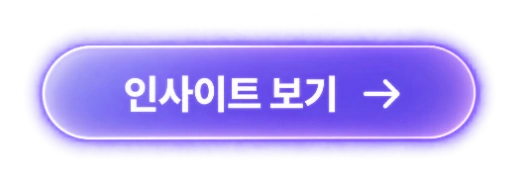
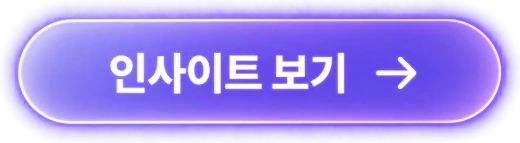
feat: FE_히어로에 하늘 장식 셋 · 그림의 투명 여백을 잘라 간격을 좁힌다
하늘 장식 셋 (비행선 · 지구본 · 전광판)
  시안(prototype.png)에서 하늘에 떠 있는 조각들인데, 낱개 모음 한 장
  (09_04_44 (10))에 같이 그려져 있다. 빛이 서로 닿아 있어 연결 요소로는 안
  갈라진다 — 실제로 자동 탐지를 돌리니 위쪽 절반이 1368x600 한 덩어리로 잡혔다.
  그래서 자리를 적어 오려낸다(bake 스크립트의 rect).

  **오린 네모의 가장자리를 부드럽게 지운다.** 어디서 잘라도 이웃의 옅은 빛이
  조금 들어와, 그대로 두면 하늘 위에 직사각형 자국이 보인다(처음에 그렇게 나왔다).
  가장자리 몇 px 을 투명으로 녹이면 티가 나지 않는다.

    deco-airship.webp    420x229  37KB
    deco-globe.webp      420x447  88KB
    deco-billboard.webp  207x535  46KB

  전부 장식이라 클릭을 받지 않고 읽어 주는 기기에서도 건너뛴다 — 전광판의
  "SMALL INSIGHT BIG CHANGE" 까지 읽히면 화면의 첫 문장이 엉뚱한 표어가 된다.
  1180px 아래에서는 걷는다. 좁으면 글자가 먼저다.

여백이 넓던 진짜 이유 — 그림 안에 있었다
  받은 PNG 는 글자 둘레에 빈칸이 넓다. 손글씨는 **높이 270px 중 187px(69%)이
  투명**이었다(위 93 · 아래 94). CSS 마진을 0 으로 해도 안 붙는 이유였다.
  굽는 단계에서 알파 경계를 찾아 잘라낸다.
    hero-eyebrow.webp  270px -> 89px
    hero-cta.webp      186px -> 143px

  이제 CSS 값이 곧 눈에 보이는 간격이라 시안처럼 바짝 붙였다
  (윗줄 아래 10 · 부제 위 10 · 버튼 위 16).

캘리그라피 크기도 줄였다(340 -> 250px).

일곱 폭에서 가로 넘침 0 · 콘솔 오류 0 · tsc -b · npm run build.
원본 PNG 는 굽고 지웠다.

diff --git a/frontend/src/styles/home-night.css b/frontend/src/styles/home-night.css
@@ -490,7 +490,7 @@ body.insight-home.is-night .hm-hello{
   margin:0 0 6px; line-height:0;
 }
 body.insight-home.is-night .hm-hello img{
-  width:clamp(230px, 24vw, 340px); height:auto; display:block;
+  width:clamp(170px, 17vw, 250px); height:auto; display:block;
 }
 
 /* 버튼 그림. 링크는 진짜라 짚기·초점 반응을 여기서 준다 */
@@ -508,3 +508,37 @@ body.insight-home.is-night .hm-cta.is-art:focus-visible{outline:2px solid #fff; 
   body.insight-home.is-night .hm-cta.is-art{transition:none}
   body.insight-home.is-night .hm-cta.is-art:hover{transform:none}
 }
+
+/* ── 하늘 장식 셋 ───────────────────────────────────────────
+   히어로 상자 안에 절대 위치로 띄운다. 히어로가 overflow:hidden 이라 밖으로는
+   못 나가고, z-index:-1 로 글자 뒤에 선다.
+   비율은 창 기준(vw)으로 잰다 — 히어로 칸은 격자가 정하는데 그 폭을 퍼센트로
+   물으면 칸과 서로를 물어보는 고리가 된다(개미에서 한 번 겪었다). */
+body.insight-home.is-night .hm-deco{
+  position:absolute; inset:0; z-index:-1; pointer-events:none; overflow:hidden;
+}
+body.insight-home.is-night .hm-deco img{position:absolute; height:auto}
+/* 비행선 — 시안에서 도시 위를 가로지른다 */
+body.insight-home.is-night .hm-deco-airship{
+  top:6%; right:20%; width:clamp(120px, 13vw, 210px); opacity:.92;
+}
+/* 지구본 — 오른쪽 아래에서 반쯤 걸친다 */
+body.insight-home.is-night .hm-deco-globe{
+  right:-4%; bottom:-28%; width:clamp(140px, 16vw, 260px); opacity:.85;
+}
+/* 전광판 — 오른쪽 끝. 세로로 길어 히어로 높이를 넘지 않게 잡는다 */
+body.insight-home.is-night .hm-deco-board{
+  top:-6%; right:1%; width:clamp(46px, 5vw, 78px); opacity:.9;
+}
+/* 좁아지면 글자가 먼저다. 1180px 아래에서는 걷는다 */
+@media (max-width:1180px){
+  body.insight-home.is-night .hm-deco{display:none}
+}
+
+/* ── 히어로 세로 간격 ───────────────────────────────────────
+   그림의 투명 여백을 굽는 단계에서 잘라냈다(손글씨는 높이의 69%가 빈칸이었다).
+   이제 CSS 값이 곧 눈에 보이는 간격이라 시안처럼 바짝 붙인다. */
+body.insight-home.is-night .hm-hello{margin:0 0 10px}
+body.insight-home.is-night .hm-hero h1{margin:0}
+body.insight-home.is-night .hm-hero-sub{margin:10px 0 0}
+body.insight-home.is-night .hm-cta.is-art{margin-top:16px}

diff --git a/frontend/src/pages/Home.tsx b/frontend/src/pages/Home.tsx
@@ -219,6 +219,20 @@ function Hero() {
           가 굽는다(1448x1086 -> 900px · 1.57MB -> 142KB). */}
       <img className="hm-hero-art is-scout" src="/assets/page_home/hero-scout.webp" alt=""
            aria-hidden="true" />
+
+      {/* 하늘에 떠 있는 장식 셋(시안 prototype.png). 낱개 모음 한 장에서 오려 구웠다
+          — scripts/bake-home-night.mjs 의 rect 를 보라.
+
+          **전부 장식이고 클릭을 받지 않는다.** 읽어 주는 기기에서도 건너뛴다 —
+          전광판의 "SMALL INSIGHT BIG CHANGE" 까지 읽히면 화면의 첫 문장이
+          엉뚱한 표어가 된다.
+
+          좁은 화면에서는 CSS 가 감춘다. 글자 자리를 먼저 내주어야 해서다. */}
+      <span className="hm-deco" aria-hidden="true">
+        <img className="hm-deco-airship" src="/assets/page_home/deco-airship.webp" alt="" />
+        <img className="hm-deco-globe" src="/assets/page_home/deco-globe.webp" alt="" />
+        <img className="hm-deco-board" src="/assets/page_home/deco-billboard.webp" alt="" />
+      </span>
     </section>
   )
 }
